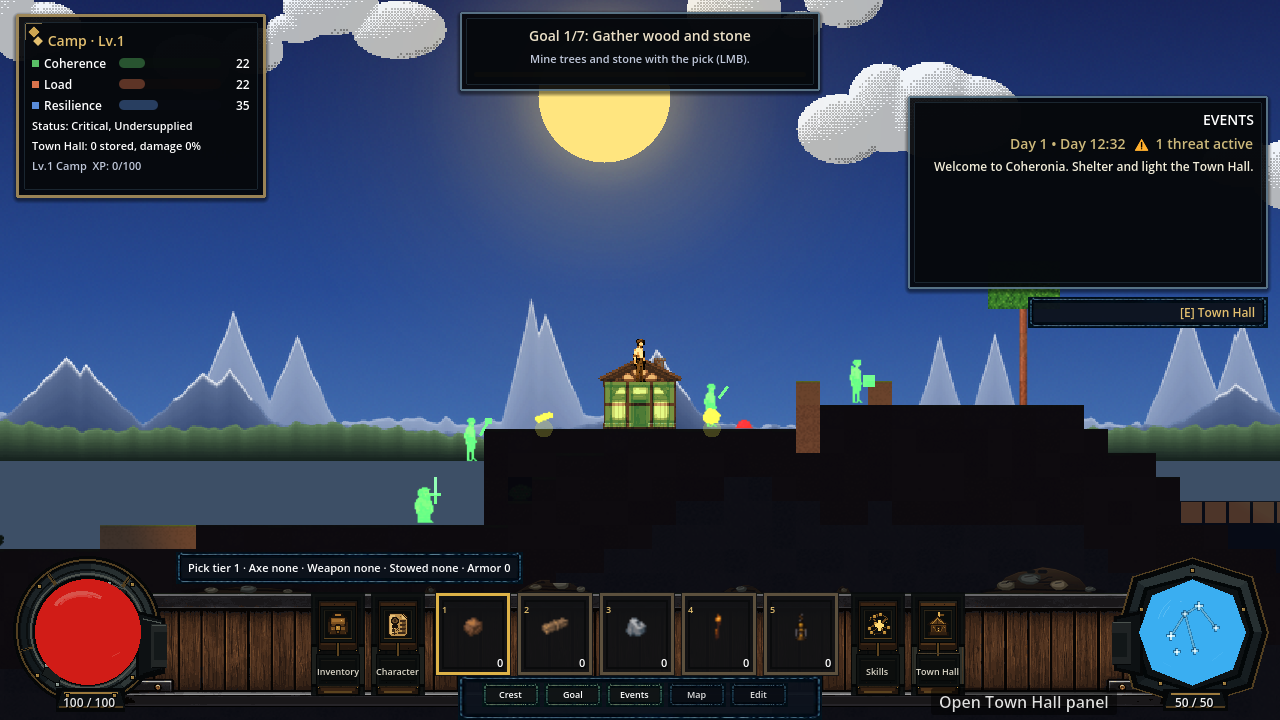
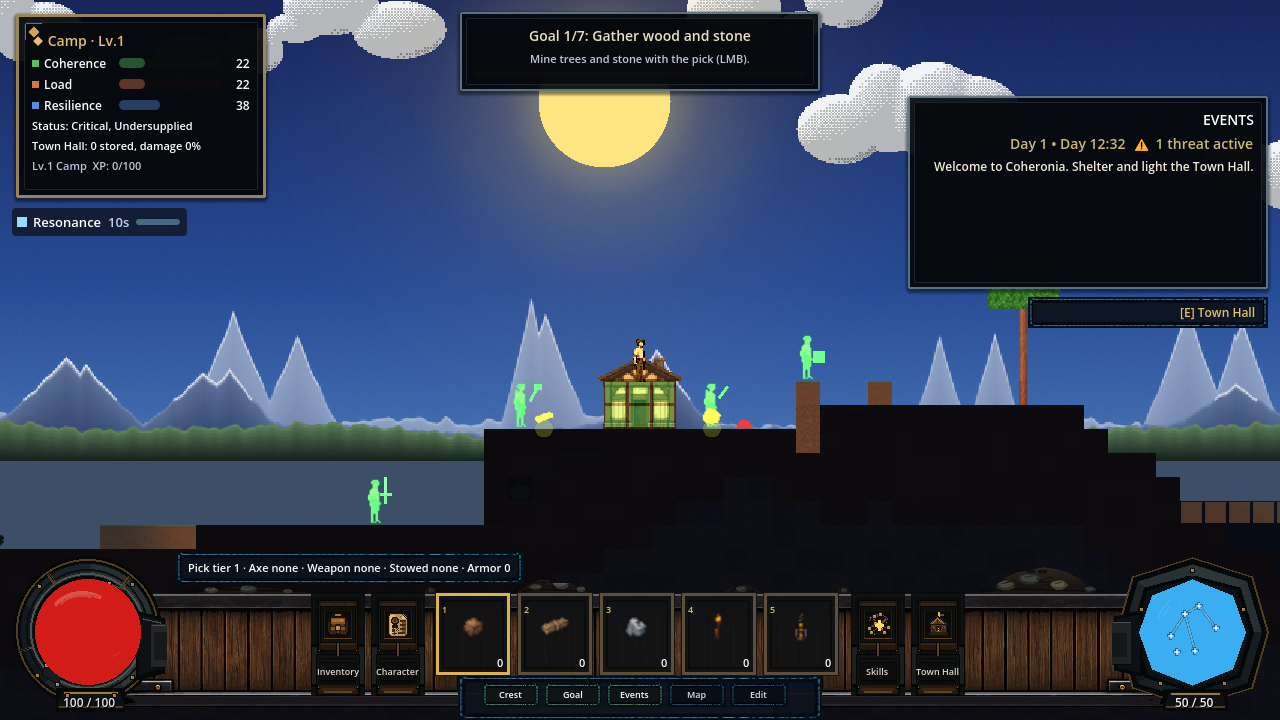
fix(perception): review fixes — LOS propagation, spawn gating, status HUD, contracts
Addresses the code review of the Perception + Resonance arc.

1. LOS diagonal leak: the pinch cull now propagates near->far, so the WHOLE ray
   behind a sealed corner is culled, not just the first cell. perception.gd
   _finalize_visibility sorts visible cells by distance and treats a diagonal
   bridge as blocking when it is a wall OR already not-visible. Smoke now asserts
   several cells behind the pinch ((6,6),(7,7),(8,8)) are unseen while the near-
   side open cells stay visible.
2. Fresh entities through fog: world gates a new threats/subjects/item_drops
   entity's visibility the moment it joins its group (SceneTree.node_added while
   perception is on) via world.gate_entity_visibility, not only on next recompute.
   New perception_spawn_gated smoke check.
3. Status HUD: now OWNED by hud.gd (build + update_status_effects), pinned below
   the crest on the left — clear of the top-right Events module (the old separate
   CanvasLayer overlapped it and went unseen). New perception_status_hud_layout
   contract asserts ownership, visibility, on-screen, and no Events overlap.
   Regenerated the resonance screenshot; the Resonance countdown now shows.
4. Duration authority + ore contract: deleted the dead pulse_display_duration();
   RESONANCE_DURATION_SEC documented as the single authority (intentionally longer
   than the ~4s data-driven light). Ore stays in the universal pulse (operator
[…]

diff --git a/docs/HANDOFF.md b/docs/HANDOFF.md
@@ -8,10 +8,45 @@ the Metal Ladder, the Calling system) are archived in
 [`docs/HANDOFF_ARCHIVE.md`](HANDOFF_ARCHIVE.md); the dated milestone list lives in
 [`README.md`](../README.md#changelog).
 
+## Active arc — Perception + Resonance (operator-approved feature exception)
+
+**NEXT INSTANCE — start here.** An explicit, **operator-authorized exception** to the
+S-07 "no-new-mechanics" boundary below: a deliberate final feature arc before
+v0.7-alpha, then stabilization resumes. It lives on branch **`feat/perception-veil`**
+(pushed to origin, **not merged to main**; a draft PR runs Linux + Windows CI). Plan:
+`C:\Users\peckm\.claude\plans\vivid-plotting-cosmos.md` (operator-local).
+
+**What it adds (windowed smoke 570/570):**
+- **Fog of war** — a 360° line-of-sight veil (recursive shadowcasting + corner-pinch
+  propagation, `scripts/world/perception.gd`) grading each cell VISIBLE / REMEMBERED
+  (persisted silhouette) / UNSEEN, rendered by the shared `cave_depth.gdshader` with a
+  soft radial rim. World rule **`fog_of_war` defaults ON** (unchecked in world settings
+  to disable; the smoke/screenshot/HUD-QA harnesses are guarded off). Save gains an
+  additive optional `perception_seen` — **no `SAVE_VERSION` / `gen_version` bump.**
+- **Attunement resonance pulse (R)** — the formerly-inert pulse now lights up on-screen
+  objects of interest (enemies red, settlers + hall green, items/ore gold, doors/
+  stations cyan, hazards amber) THROUGH the veil and out of sight, via a silhouette
+  recolor shader for entities + a batched fill for terrain, on a ~10 s countdown.
+- **Status-effect HUD** (`scripts/ui/status_effects_hud.gd`, owned by `hud.gd`) — a
+  generic timed-effect stack; resonance is the first consumer.
+- **Ancestry dark-sight** — sight radius is a composable resolver with a dark-adapted
+  ancestry bonus + gear/weather/Calling hooks (stubbed at 1.0).
+
+**Decisions on record (reviewer-flagged):** ore stays in the **universal** pulse
+(operator choice); the Phase C **Prospector** variant EXTENDS ore-sense (range/depth/
+through-rock), it is not the only ore sense. Resonance duration is intentionally longer
+than the data-driven light pulse; `RESONANCE_DURATION_SEC` is the single authority.
+
+**Remaining:** Phase C (Calling detection variants — Prospector/Trailseeker/Warden/etc.,
+hooks already stubbed), Phase D (balance: pulse cost/regen/range/duration), refresh
+showcase screenshots, land the PR green, then merge. **Known limit:** sun/torch light
+still leaks through 1×1 diagonal block seams — pre-existing 2D lighting, not the veil
+(documented in `docs/wiki/known_issues.md`).
+
 ## Current arc — S-07 stabilization (toward v0.7-alpha)
 
-**NEXT INSTANCE — start here.** The active arc is **stabilization and
-truthfulness**, not new mechanics. Its authority is
+**Paused for the Perception + Resonance arc above; resumes once it merges.** The S-07
+arc is **stabilization and truthfulness**, not new mechanics. Its authority is
 [`docs/WORK_ORDER_S07_STABILIZE_POLISH_DECOMPOSE.md`](WORK_ORDER_S07_STABILIZE_POLISH_DECOMPOSE.md).
 The game is behaviourally stable and honestly documented; the remaining work is
 release hardening, maintainability, presentation polish, and one measured balance
